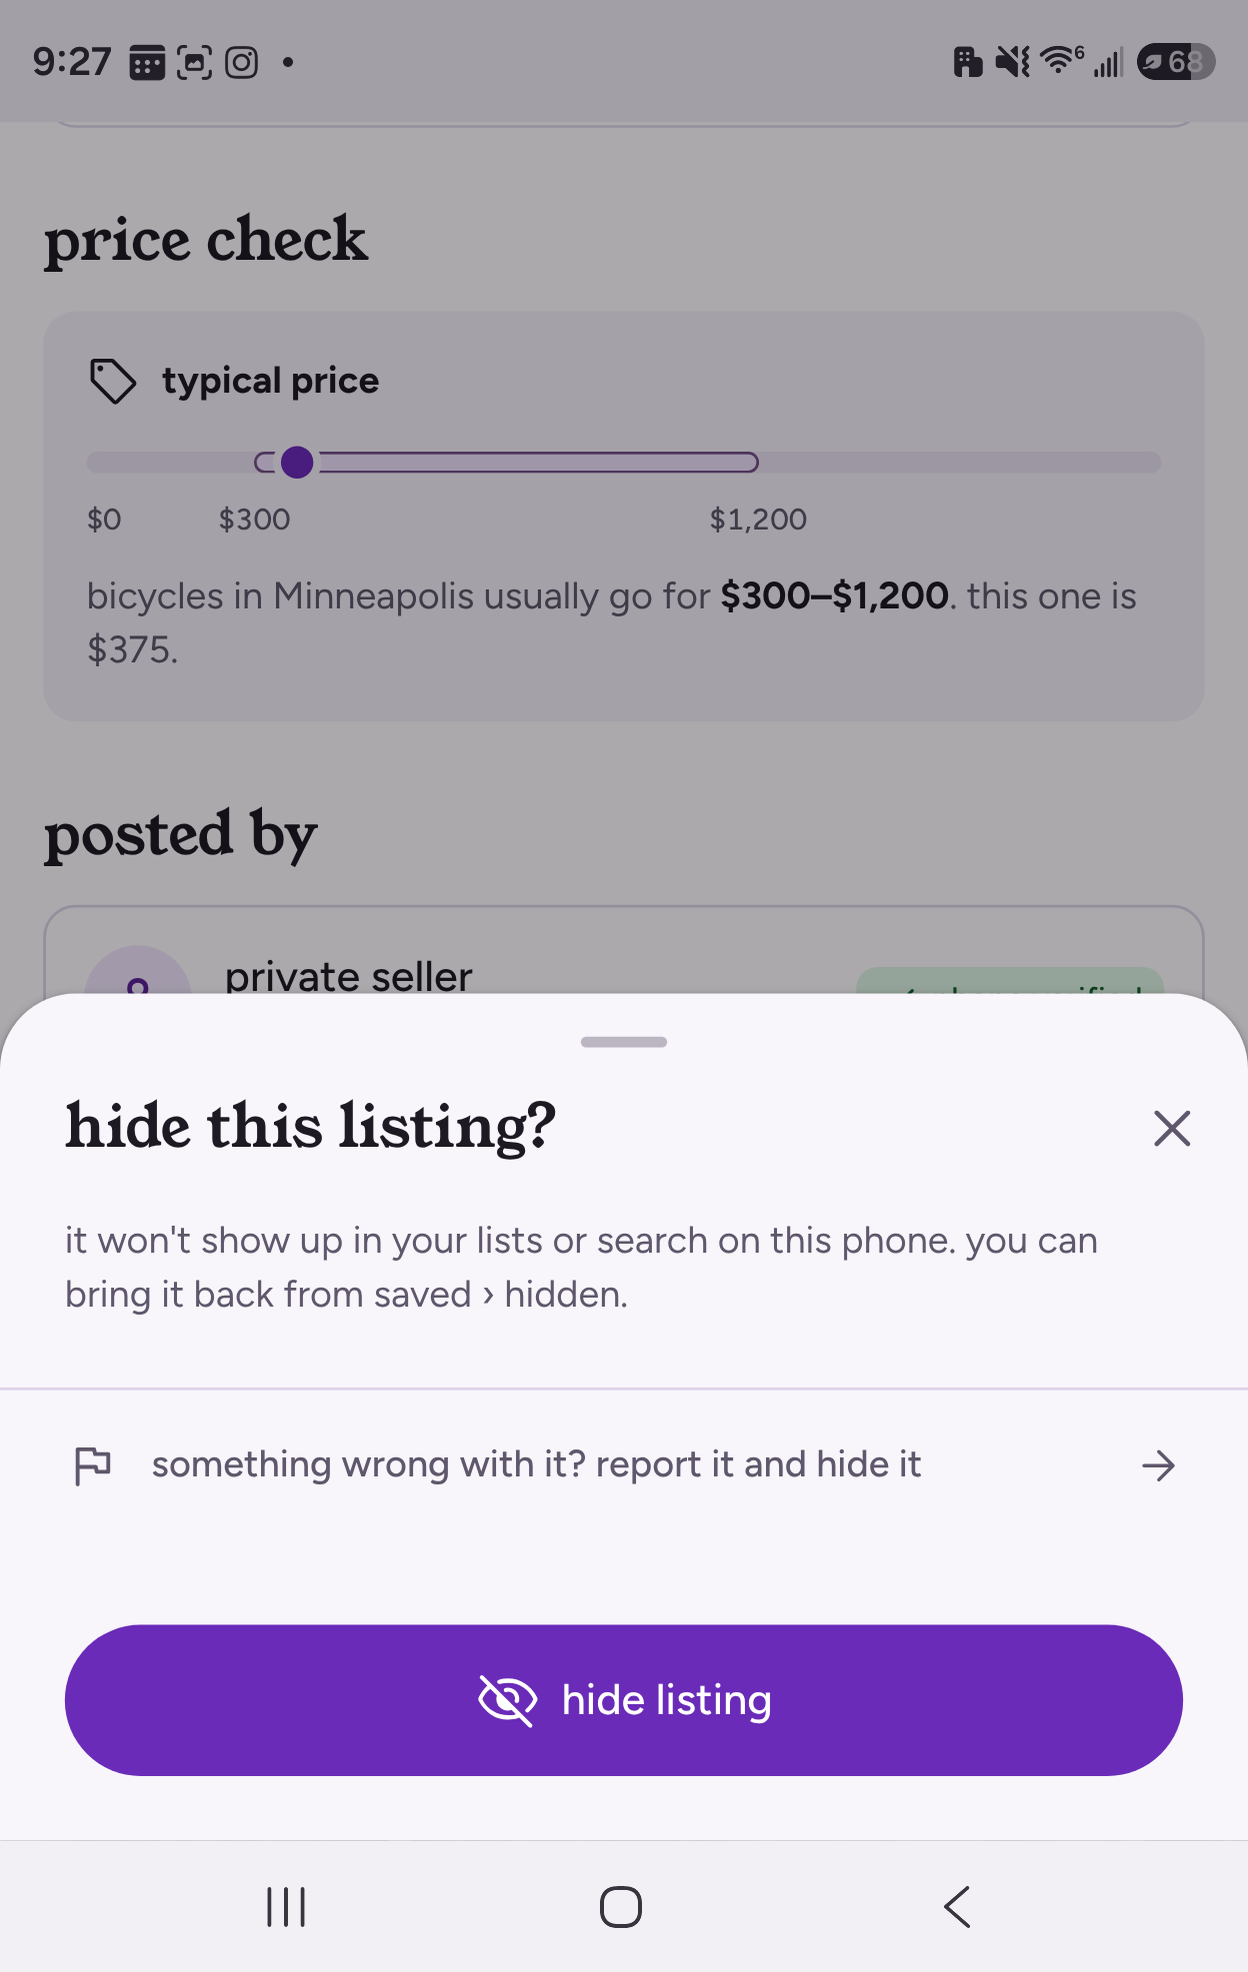
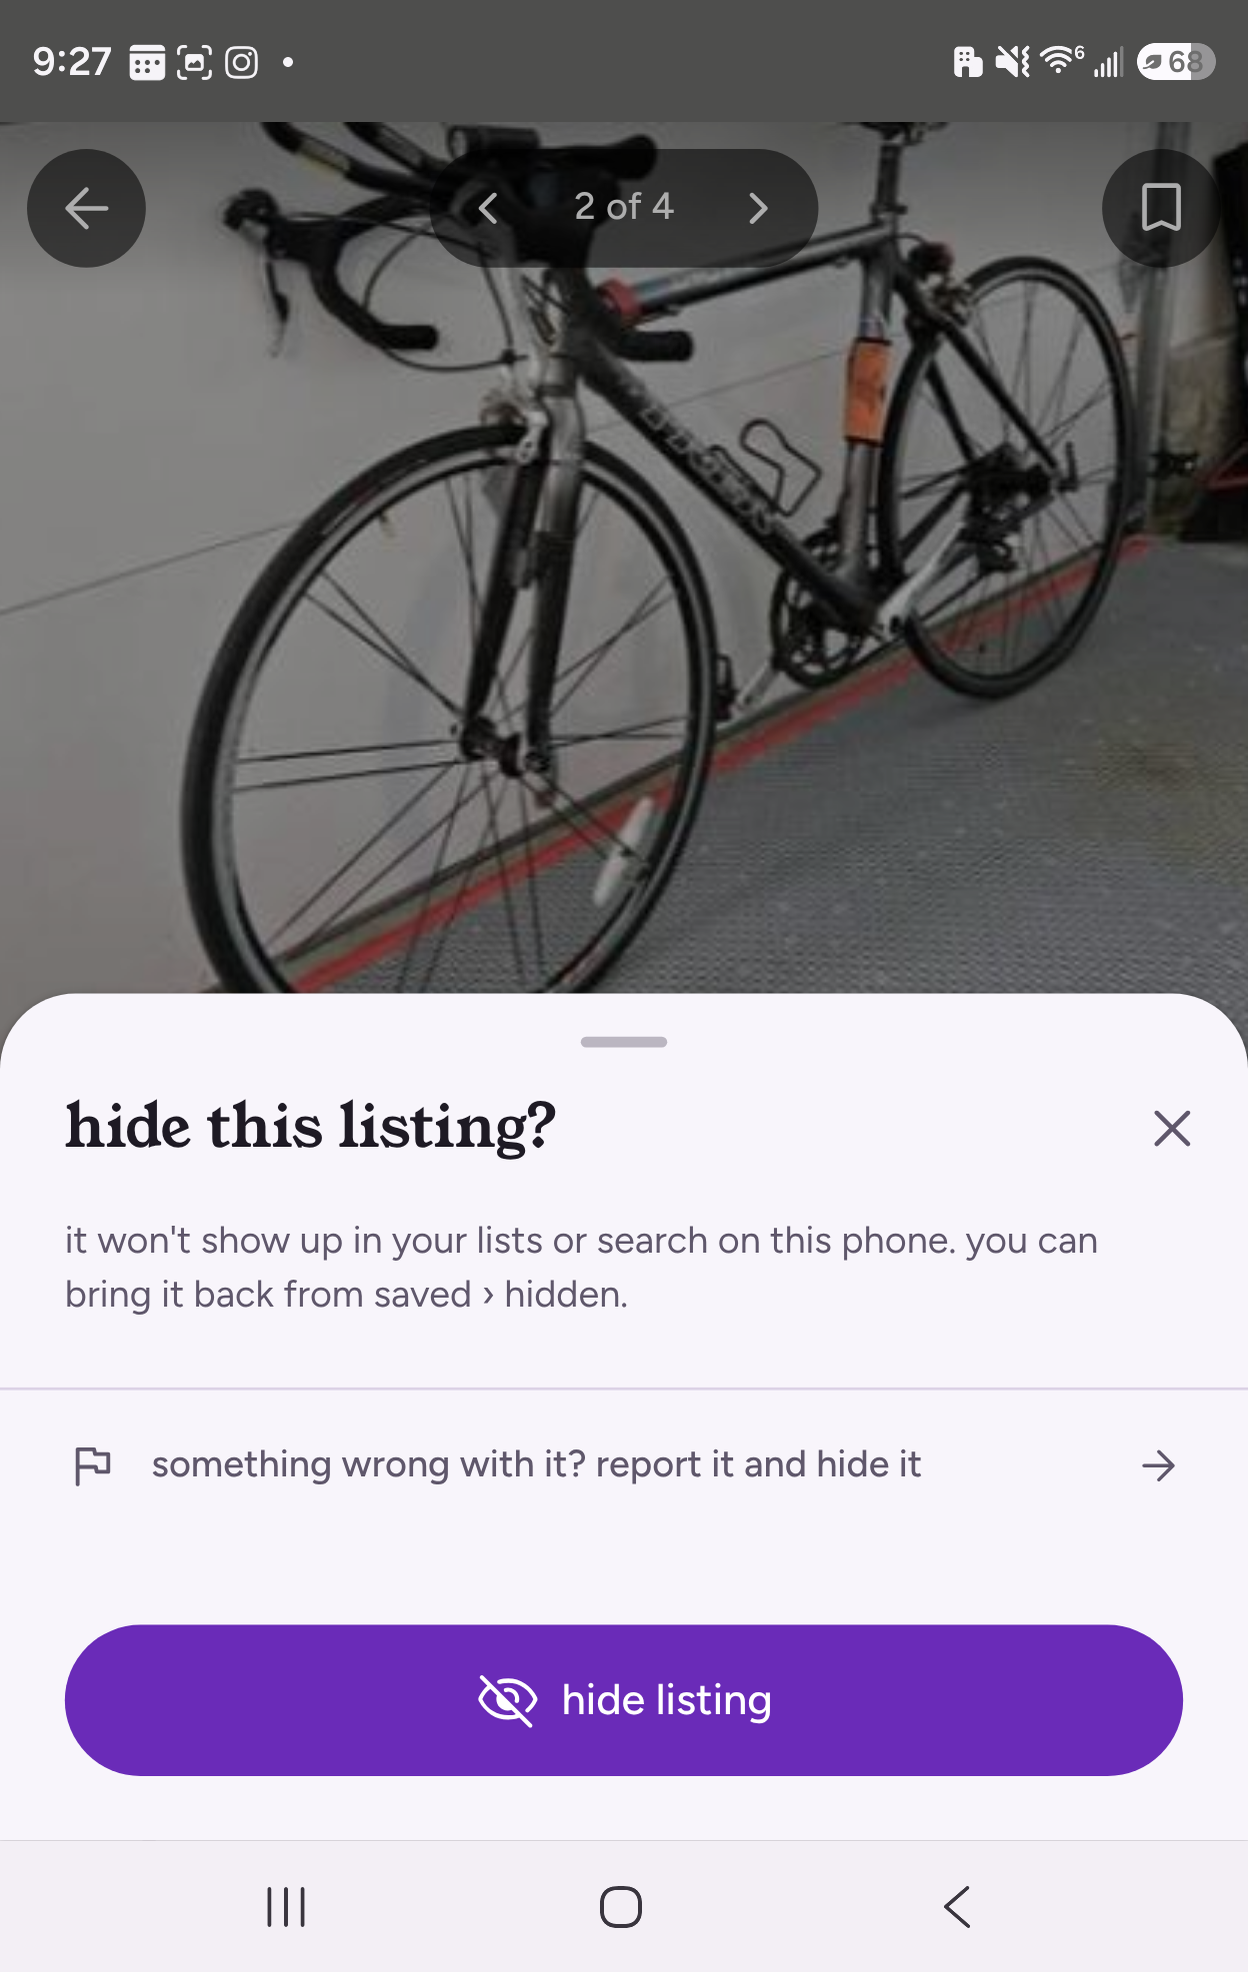
Action bar slide: redesign only, sheets over the top of the listing
Claude-Session: https://claude.ai/code/session_01H3xU87F2bRsPtLC5hugNNH

diff --git a/docs/presentation-outline.md b/docs/presentation-outline.md
@@ -121,7 +121,7 @@ A new layout: four redesign screenshots with the view’s name under each, and n
 - Save at the top / **The same spot as on the list, so saving several in a row is quick**
 
 ### 20. Hide, share and message, all in one bar
-- **Screens:** today [26](audit-screens/26-detail-map-actions.jpg); redesign `14d-hide-confirm`, `16a-message-seller`
+- **Screens:** redesign only, no “Today” column: `14a-detail-top` (the Trek with its action bar), `14d-hide-confirm`, `16a-message-seller` (both sheets over the top of the listing)
 - A clearer hide icon / **Hiding asks first, and lets you report it too**
 - Share in the middle / **Prominent, so passing a listing along is easy**
 - Message on the right / **The main action, with quick replies to get started**
